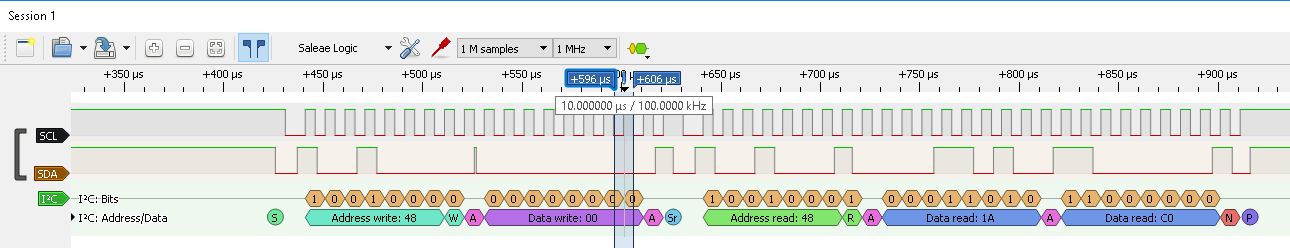
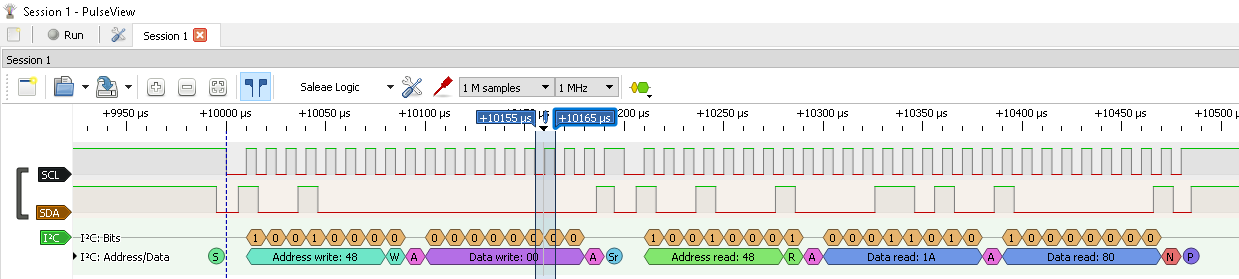
Dumps all 3 temperature registers

diff --git a/test-lm75a.py b/test-lm75a.py
@@ -5,13 +5,12 @@ import sys
 import smbus
 
 
-def read_temp(bus_obj,i2c_addr):
-    bus_obj.write_byte_data(i2c_addr,0,0)
-    x = bus_obj.read_word_data(i2c_addr,0)
+def read_temp(bus_obj,i2c_addr,temp_reg,descr):
+    x = bus_obj.read_word_data(i2c_addr,temp_reg)
     # swap byte order
     x2 = (( x >> 8) & 0xff) + ( ( x << 8 ) & 0xff00)
-    print("Raw=0x%x Raw_Swapped=0x%x" % (x,x2))
-    print("Temperature in Celsius=%d" % (x2 >> 8,) )
+    #print("Raw=0x%x Raw_Swapped=0x%x" % (x,x2))
+    print("%s temperature is %d Celsius" % (descr,x2 >> 8,) )
 
 if __name__ == "__main__":
     if len(sys.argv) != 3:
@@ -24,6 +23,8 @@ if __name__ == "__main__":
     print("Expecting LM75 to have I2C slave address 0x%x on I2C BUS %u" % (i2c_addr,i2c_bus))
 
     bus = smbus.SMBus(i2c_bus)
-    read_temp(bus,i2c_addr)
+    read_temp(bus, i2c_addr,0, "Current")
+    read_temp(bus, i2c_addr,2, "Hysteresis")
+    read_temp(bus, i2c_addr,3, "Shutdown")
 
 

diff --git a/README.md b/README.md
@@ -58,13 +58,22 @@ Now you can run example python program:
 ```
 ./test-lm75a.py 1 0x48
    Expecting LM75 to have I2C slave address 0x48 on I2C BUS 1
-   Raw=0x801a Raw_Swapped=0x1a80
-   Temperature in Celsius=26
+   Current temperature is 26 Celsius
+   Hysteresis temperature is 75 Celsius
+   Shutdown temperature is 80 Celsius
 ```
 
 Here is I2C communication in Sigrok PulseView:
 
+Getting current temperature (Pointer Register = 0x00):
+
 ![LM75A Get Temperature PulseView](https://github.com/hpaluch/pi-lm75a/blob/master/assets/lm75a-raspberry-get-temp.png?raw=true) 
+
+Getting hysteresis temperature (Pointer Register = 0x02):
+
+![LM75A Get Hysteresis PulseView](https://github.com/hpaluch/pi-lm75a/blob/master/assets/lm75a-raspberry-get-hysteresis.png?raw=true) 
+
+NOTE: 0x004b = 75 (degress of Celsius)
 
 # Bugs
 
